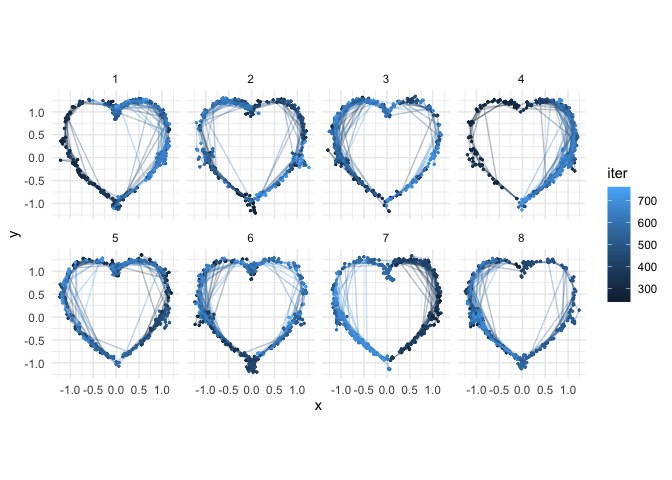
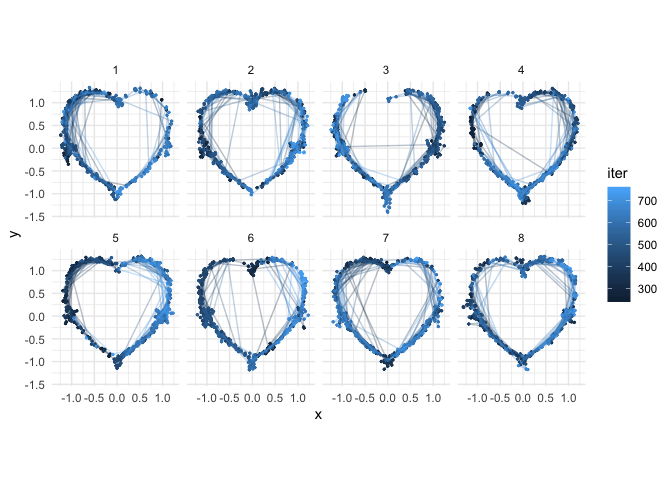
update readme with semialg

diff --git a/README.md b/README.md
@@ -407,20 +407,20 @@ Variety normal distribution
 options("mc.cores" = parallel::detectCores())
 
 p <- mp("(x^2 + y^2 - 1)^3 - x^2 y^3")
-(samps <- rvnorm(500, p, .025, "tibble", w = 2, chains = 8))
+(samps <- rvnorm(500, p, .025, "tibble", chains = 8))
 # # A tibble: 4,000 x 8
-#         x      y         num denom          ng  lp__ chain  iter
-#     <dbl>  <dbl>       <dbl> <dbl>       <dbl> <dbl> <int> <int>
-#  1 1.17    0.614  0.0874     3.31   0.0264      1.70     1   251
-#  2 1.08    0.157  0.00287    0.244  0.0118      2.31     1   252
-#  3 1.11    0.316  0.0000211  0.716  0.0000295   2.37     1   253
-#  4 0.674  -0.427 -0.0126     0.868 -0.0145      2.43     1   254
-#  5 0.0903 -0.920  0.00327    0.205  0.0159      2.33     1   255
-#  6 0.200  -0.841  0.00783    0.514  0.0152      2.38     1   256
-#  7 0.109  -0.870 -0.00449    0.353 -0.0127      2.43     1   257
-#  8 0.461  -0.651  0.0102     1.00   0.0102      2.52     1   258
-#  9 0.176  -0.840 -0.00000477 0.502 -0.00000952  2.57     1   259
-# 10 0.0918 -0.875 -0.00599    0.326 -0.0184      2.29     1   260
+#        x      y      num denom        ng  lp__ chain  iter
+#    <dbl>  <dbl>    <dbl> <dbl>     <dbl> <dbl> <int> <int>
+#  1 0.981  1.07   0.162   6.50   0.0249    2.27     1   251
+#  2 0.979  1.06   0.137   6.29   0.0217    2.39     1   252
+#  3 0.895 -0.197  0.00207 0.195  0.0106    2.68     1   253
+#  4 1.10   0.222  0.00226 0.393  0.00575   2.74     1   254
+#  5 1.13   0.216  0.0209  0.687  0.0304    2.03     1   255
+#  6 1.11   0.205  0.0110  0.502  0.0218    2.39     1   256
+#  7 0.757  1.17  -0.0928  4.10  -0.0226    2.36     1   257
+#  8 0.765  1.19   0.0357  5.24   0.00681   2.73     1   258
+#  9 0.742  1.20   0.00398 4.88   0.000815  2.77     1   259
+# 10 1.08   0.842 -0.0151  4.02  -0.00376   2.76     1   260
 # # … with 3,990 more rows
 
 ggplot(samps, aes(x, y)) + geom_point(size = .5) + coord_equal()
@@ -436,6 +436,16 @@ ggplot(samps, aes(x, y, color = iter)) +
 ```
 
 ![](tools/rvnorm-2.png)
+
+For semi-algebraic sets:
+
+``` r
+p <- mp("(x^2 + y^2 - 1)^3 - x^2 y^3 + s^2")
+samps <- rvnorm(500, p, .025, "tibble", chains = 8) 
+ggplot(samps, aes(x, y)) + geom_point(size = .5) + coord_equal()
+```
+
+![](tools/rvnorm-semi-alg-1.png)
 
 Acknowledgements
 ================
